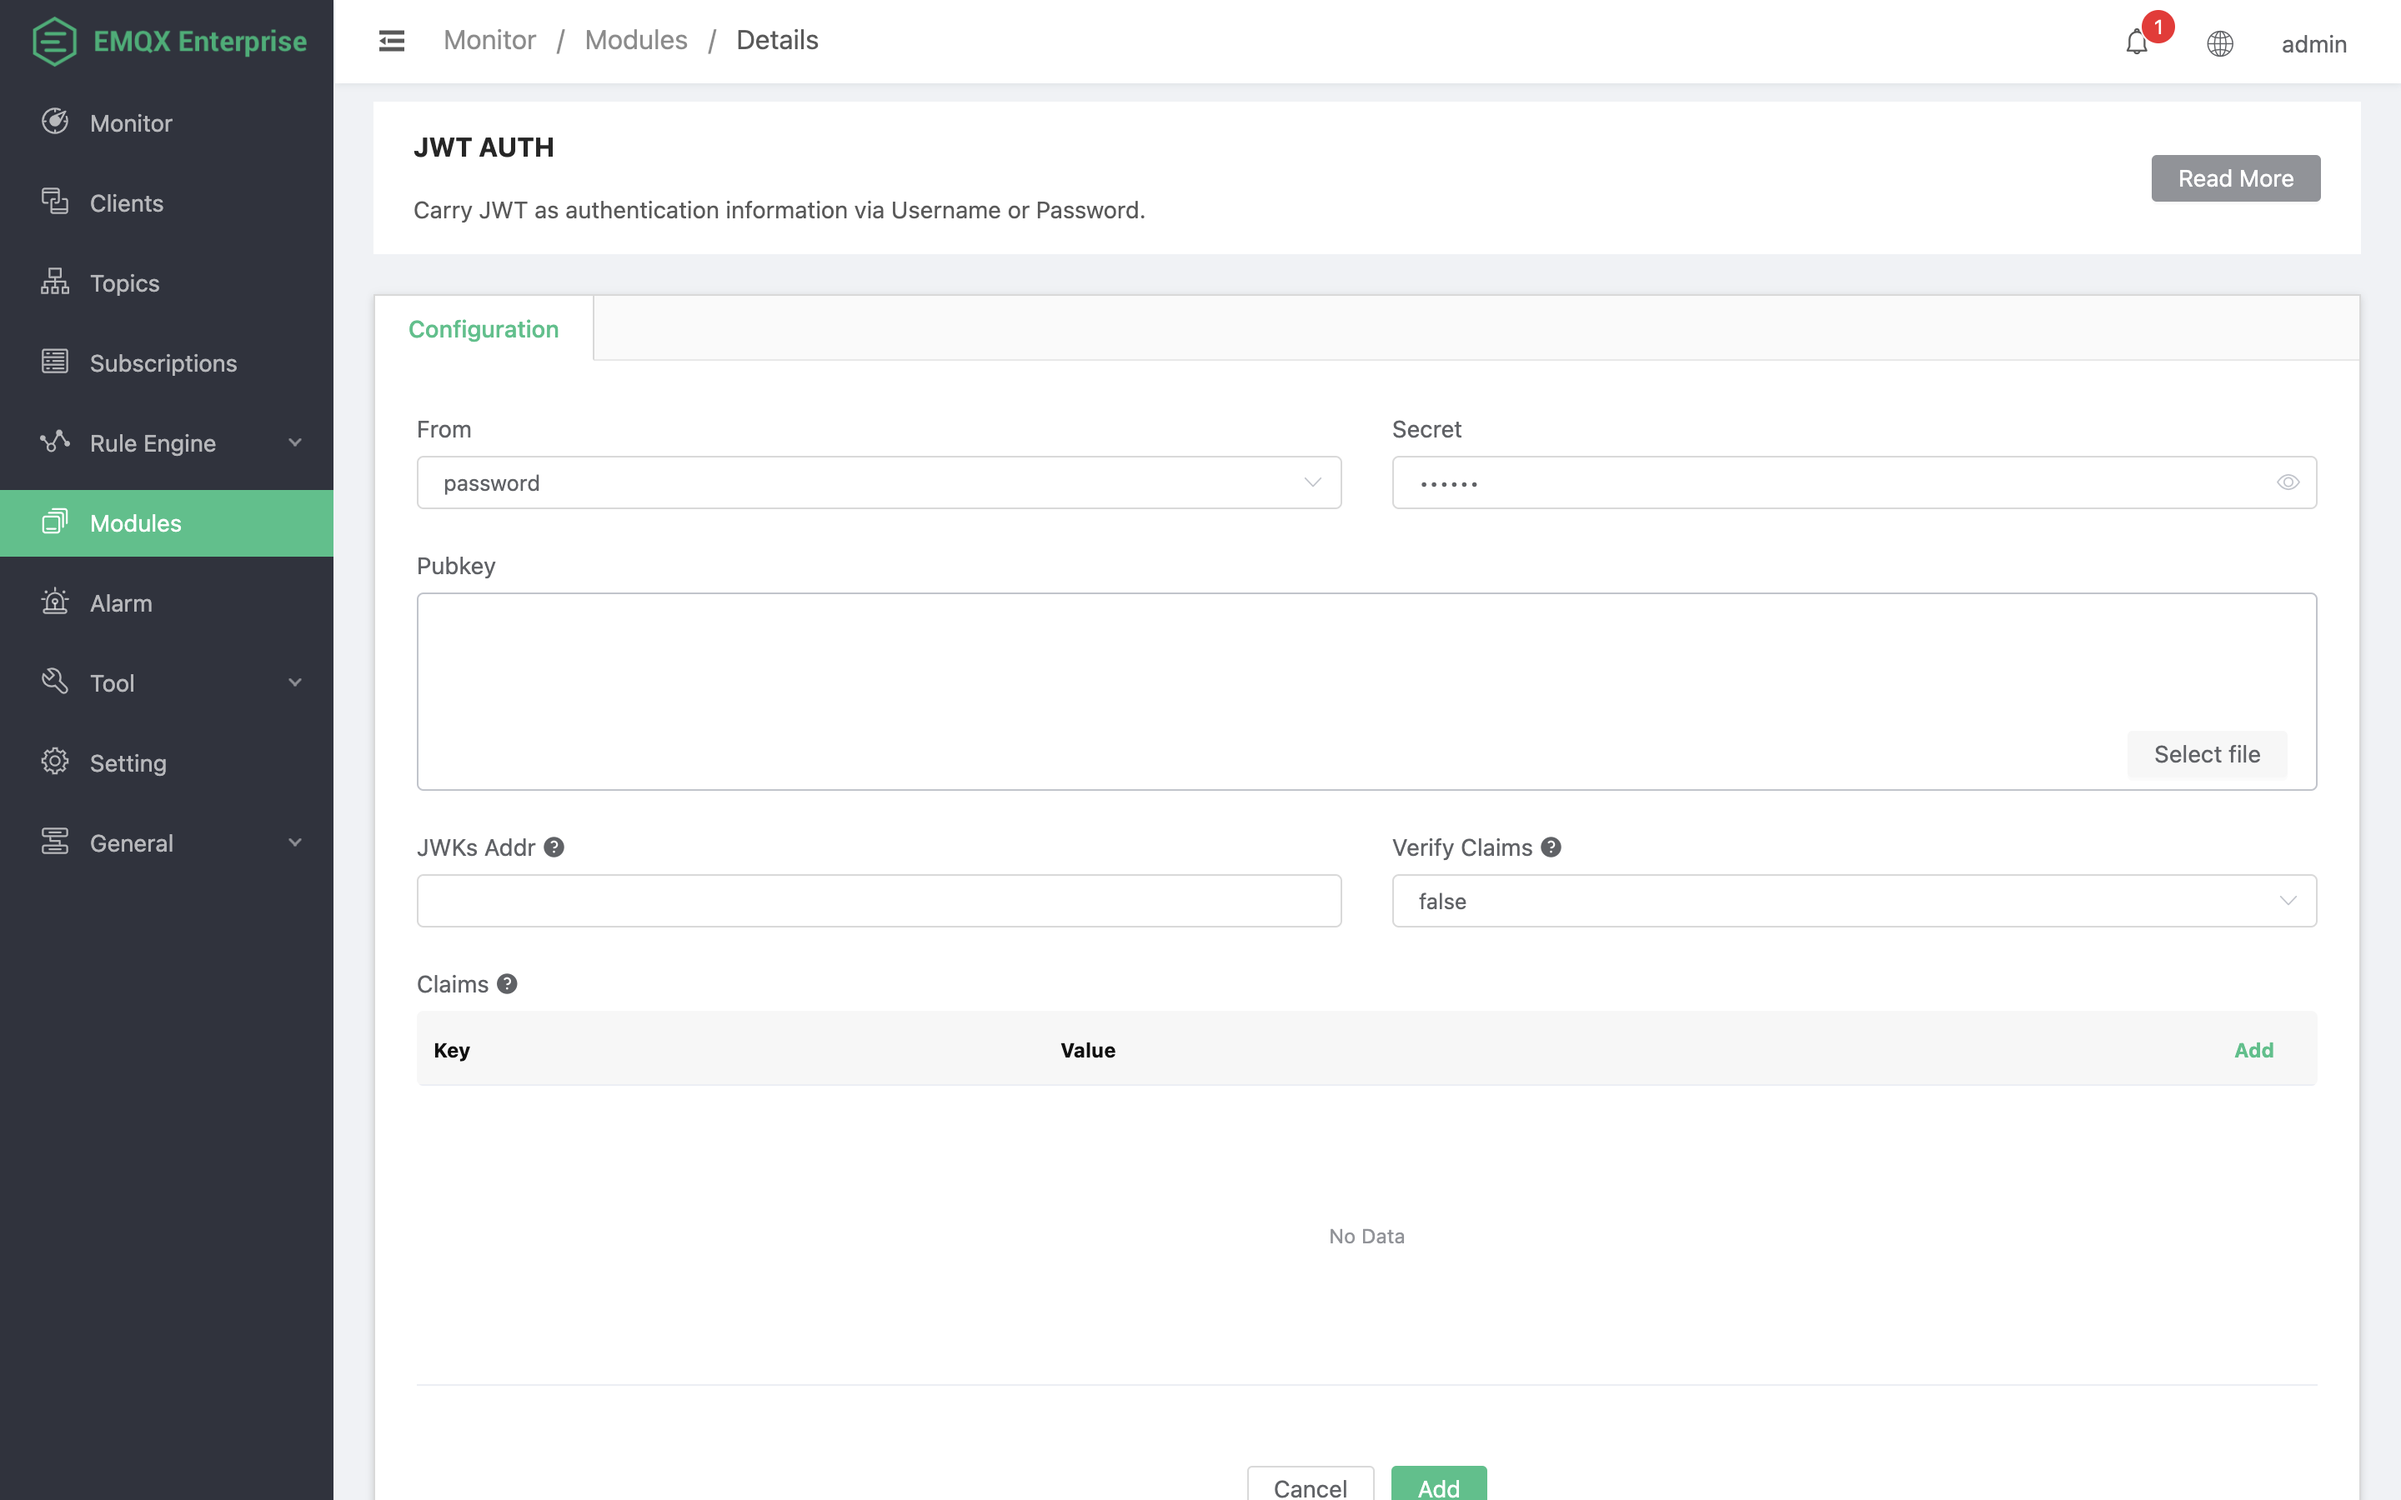
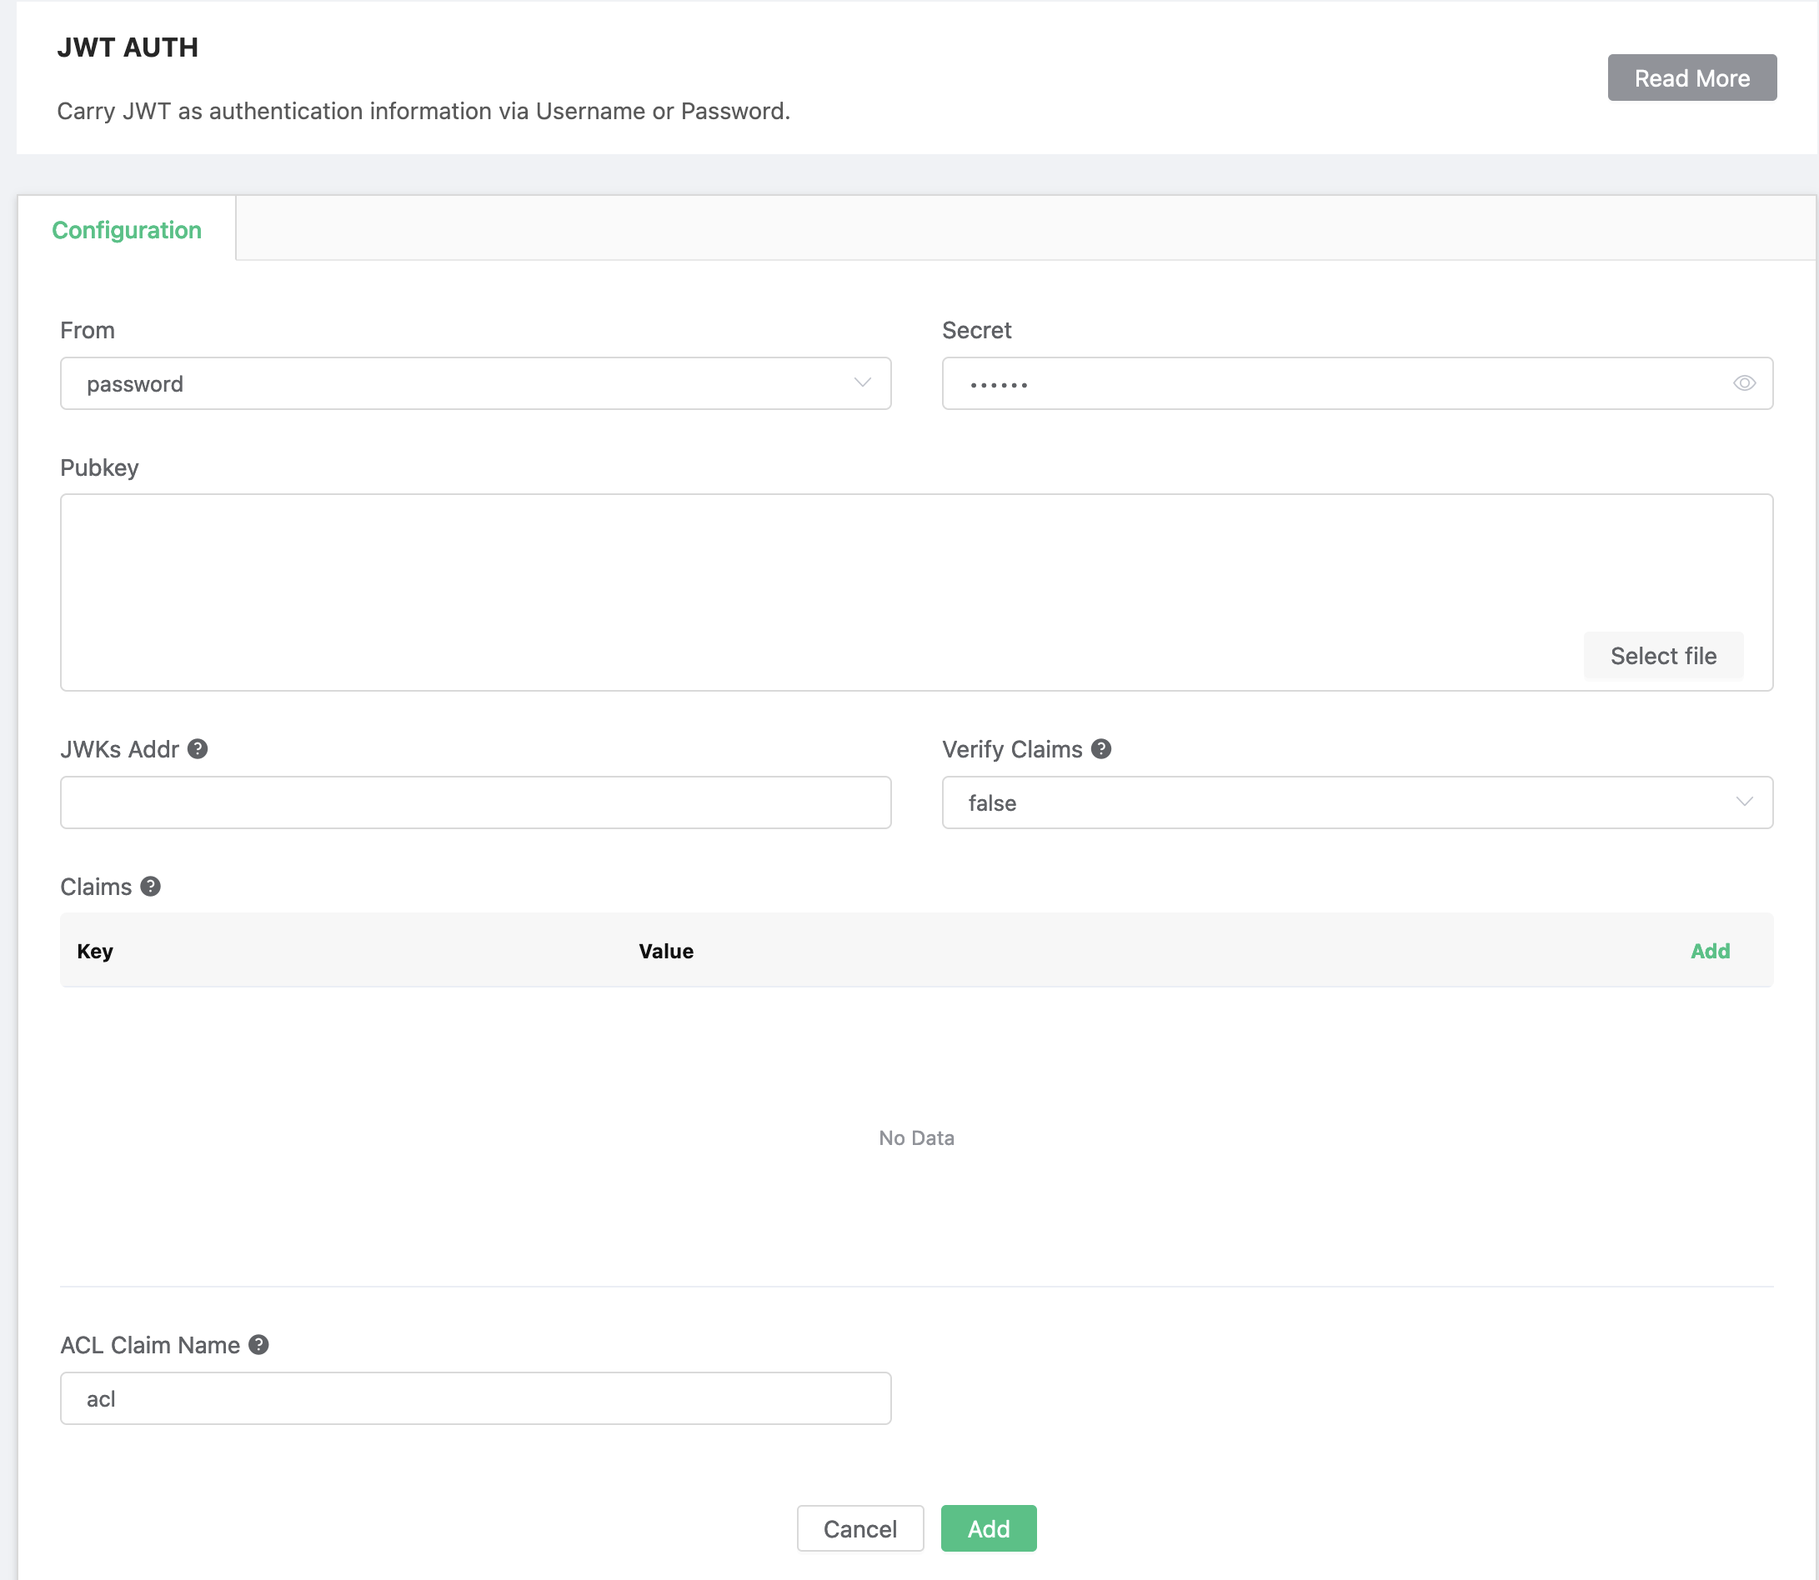
docs: update jwt acl modules

diff --git a/en_US/modules/jwt_authentication.md b/en_US/modules/jwt_authentication.md
@@ -46,3 +46,59 @@ eyJhbGciOiJIUzI1NiIsInR5cCI6IkpXVCJ9.eyJkYXRhIjp7ImF1dGhvciI6IndpdndpdiIsInNpdGU
 The above JWT Token is only for testing and can be generated with related tools according to your own business needs. An online generation tool is provided here: https://www.jsonwebtoken.io/.
 
 :::
+
+## ACL information stored in claims
+
+The 'ACL Claim Name' filed can be used to to specify which JWT token claim is to be used for ACL rules.
+If the provided claim is not found in the JWT, no ACL check will be applied for this client, unless there
+are other ACL plugins or modules enabled.
+
+## ACL data structure
+
+The data structure of ACL rules is the following:
+
+```js
+{
+    # ... payload claims ...
+    "acl": {
+        "sub": [
+            "some/topic/for/sub/1",
+            "some/topic/for/sub/2"
+        ],
+        "pub": [
+            "some/topics/for/pub/1",
+            "some/topics/for/pub/2"
+        ]
+    }
+}
+```
+
+`pub` and `sub` lists serve as whitelists for the corresponding operations.
+
+You can use the following placeholders in topic whitelists:
+- %u：Username
+- %c：Client ID
+
+For example:
+```js
+{
+    # ... payload claims ...
+    "acl": {
+        "pub": [
+            "some/stats/%c"
+        ]
+    }
+}
+```
+
+## ACL expiration
+
+JWT ACL engine will prohibit all operations after the deadline specified in `exp` JWT claim, so
+a client with an expired JWT has to reconnect with a fresh JWT.
+
+To make ACL rules valid forever, a client may not provide `exp` claim at all.
+
+::: warning
+1. Using long-living JWTs is not considered secure.
+2. When ACL cache is enabled, the ACL rule's expiration is either when the cache or JWT expires, whichever comes the last.
+:::

diff --git a/zh_CN/advanced/acl-jwt.md b/zh_CN/advanced/acl-jwt.md
@@ -39,7 +39,7 @@ auth.jwt.acl_claim_name = acl
 
 ```
 
-如果客户端在其 JWT 中没有指定 ACL 的字段，则不会应用 JWT ACL。
+如果一个 JWT 中不含该字段，则不会对该客户端进行 ACL 检查（其他插件或模块的 ACL 不受影响）。
 
 ## 数据结构
 
@@ -56,10 +56,6 @@ ACL 规则的数据结构如下：
         "pub": [
             "some/topics/for/pub/1",
             "some/topics/for/pub/2"
-        ],
-        "all": [
-            "some/topics/for/pubsub/1",
-            "some/topics/for/pubsub/2"
         ]
     }
 }
@@ -83,16 +79,14 @@ ACL 规则的数据结构如下：
 }
 ```
 
-EMQX Broker 在检查 ACL 之前会自动填充使用占位符的主题。
-
 ## ACL 过期
 
-客户端登录的 JWT 字段中，可以通过携带 `exp` 字段来拒绝该客户端所有的发布/订阅请求。
-所以，过期的 JWT 客户端必须使用新的 JWT 进行重连。
+JWT ACL 检查时如果发现这个 Token 已经超期 (`exp` 字段指定)，那么所有的操作都将被禁止。
+客户端必需获取一个新的有效 JWT 在进行重连。
 
-为了使 ACL 规则永远有效，客户端可以不提供 `exp` 字段来表示这是一个永久有效的 ACL 规则。
+如果想要让一个 JWT 永不超期，可以在 JWT 中不提供 `exp` 字段即可。
 
 ::: 警告！！
 1. 使用长期的 JWT 是不安全的。
-2. 开启 ACL 缓存后，可能会导致过期时间检查无效。
+2. ACL 缓存开启的情况下，JWT 超期之后一段时间可能还会继续有效，直到缓存失效。
 :::

diff --git a/zh_CN/modules/jwt_authentication.md b/zh_CN/modules/jwt_authentication.md
@@ -47,3 +47,56 @@ eyJhbGciOiJIUzI1NiIsInR5cCI6IkpXVCJ9.eyJkYXRhIjp7ImF1dGhvciI6IndpdndpdiIsInNpdGU
 
 :::
 
+## JWT 中的 acl 字段
+
+模块配置参数中的 "ACL Claim Name" 字段可以用于指定从那个 JWT 字段中提取 ACL 信息。
+如果一个 JWT 中不含该字段，则不会对该客户端进行 ACL 检查（其他插件或模块的 ACL 不受影响）。
+
+## 数据结构
+
+```js
+{
+    # ... payload claims ...
+    "acl": {
+        "sub": [
+            "some/topic/for/sub/1",
+            "some/topic/for/sub/2"
+        ],
+        "pub": [
+            "some/topics/for/pub/1",
+            "some/topics/for/pub/2"
+        ]
+    }
+}
+```
+
+`pub` 和 `sub` 用于指定该客户端允许发布和订阅的主题白名单。
+
+可以在主题白名单中使用以下占位符:
+
+- %u：用户名
+- %c：客户端 ID
+
+例如:
+```js
+{
+    # ... payload claims ...
+    "acl": {
+        "pub": [
+            "some/stats/%c"
+        ]
+    }
+}
+```
+
+## ACL 过期
+
+JWT ACL 检查时如果发现这个 Token 已经超期 (`exp` 字段指定)，那么所有的操作都将被禁止。
+客户端必需获取一个新的有效 JWT 在进行重连。
+
+如果想要让一个 JWT 永不超期，可以在 JWT 中不提供 `exp` 字段即可。
+
+::: 警告！！
+1. 使用长期的 JWT 是不安全的。
+2. ACL 缓存开启的情况下，JWT 超期之后一段时间可能还会继续有效，直到缓存失效。
+:::

diff --git a/en_US/advanced/acl-jwt.md b/en_US/advanced/acl-jwt.md
@@ -39,7 +39,9 @@ auth.jwt.acl_claim_name = acl
 
 ```
 
-JWT authorization is not applied if a client does not have the specified claim in its JWT.
+If the provided claim is not found in the JWT, no ACL check will be applied for this client, unless there
+are other ACL plugins or modules enabled.
+
 
 ## Data structure
 
@@ -56,16 +58,12 @@ The data structure of ACL rules is the following:
         "pub": [
             "some/topics/for/pub/1",
             "some/topics/for/pub/2"
-        ],
-        "all": [
-            "some/topics/for/pubsub/1",
-            "some/topics/for/pubsub/2"
         ]
     }
 }
 ```
 
-`pub`, `sub`, and `all` lists serve as whitelists for the corresponding operations.
+`pub` and `sub` lists serve as whitelists for the corresponding operations.
 
 You can use the following placeholders in topic whitelists:
 - %u：Username
@@ -94,5 +92,5 @@ To make ACL rules valid forever, a client may not provide `exp` claim at all.
 
 ::: warning
 1. Using long-living JWTs is not considered secure.
-2. Turning on ACL caching may invalidate the expiration time check.
+2. When ACL cache is enabled, the ACL rule's expiration is either when the cache or JWT expires, whichever comes the last.
 :::
